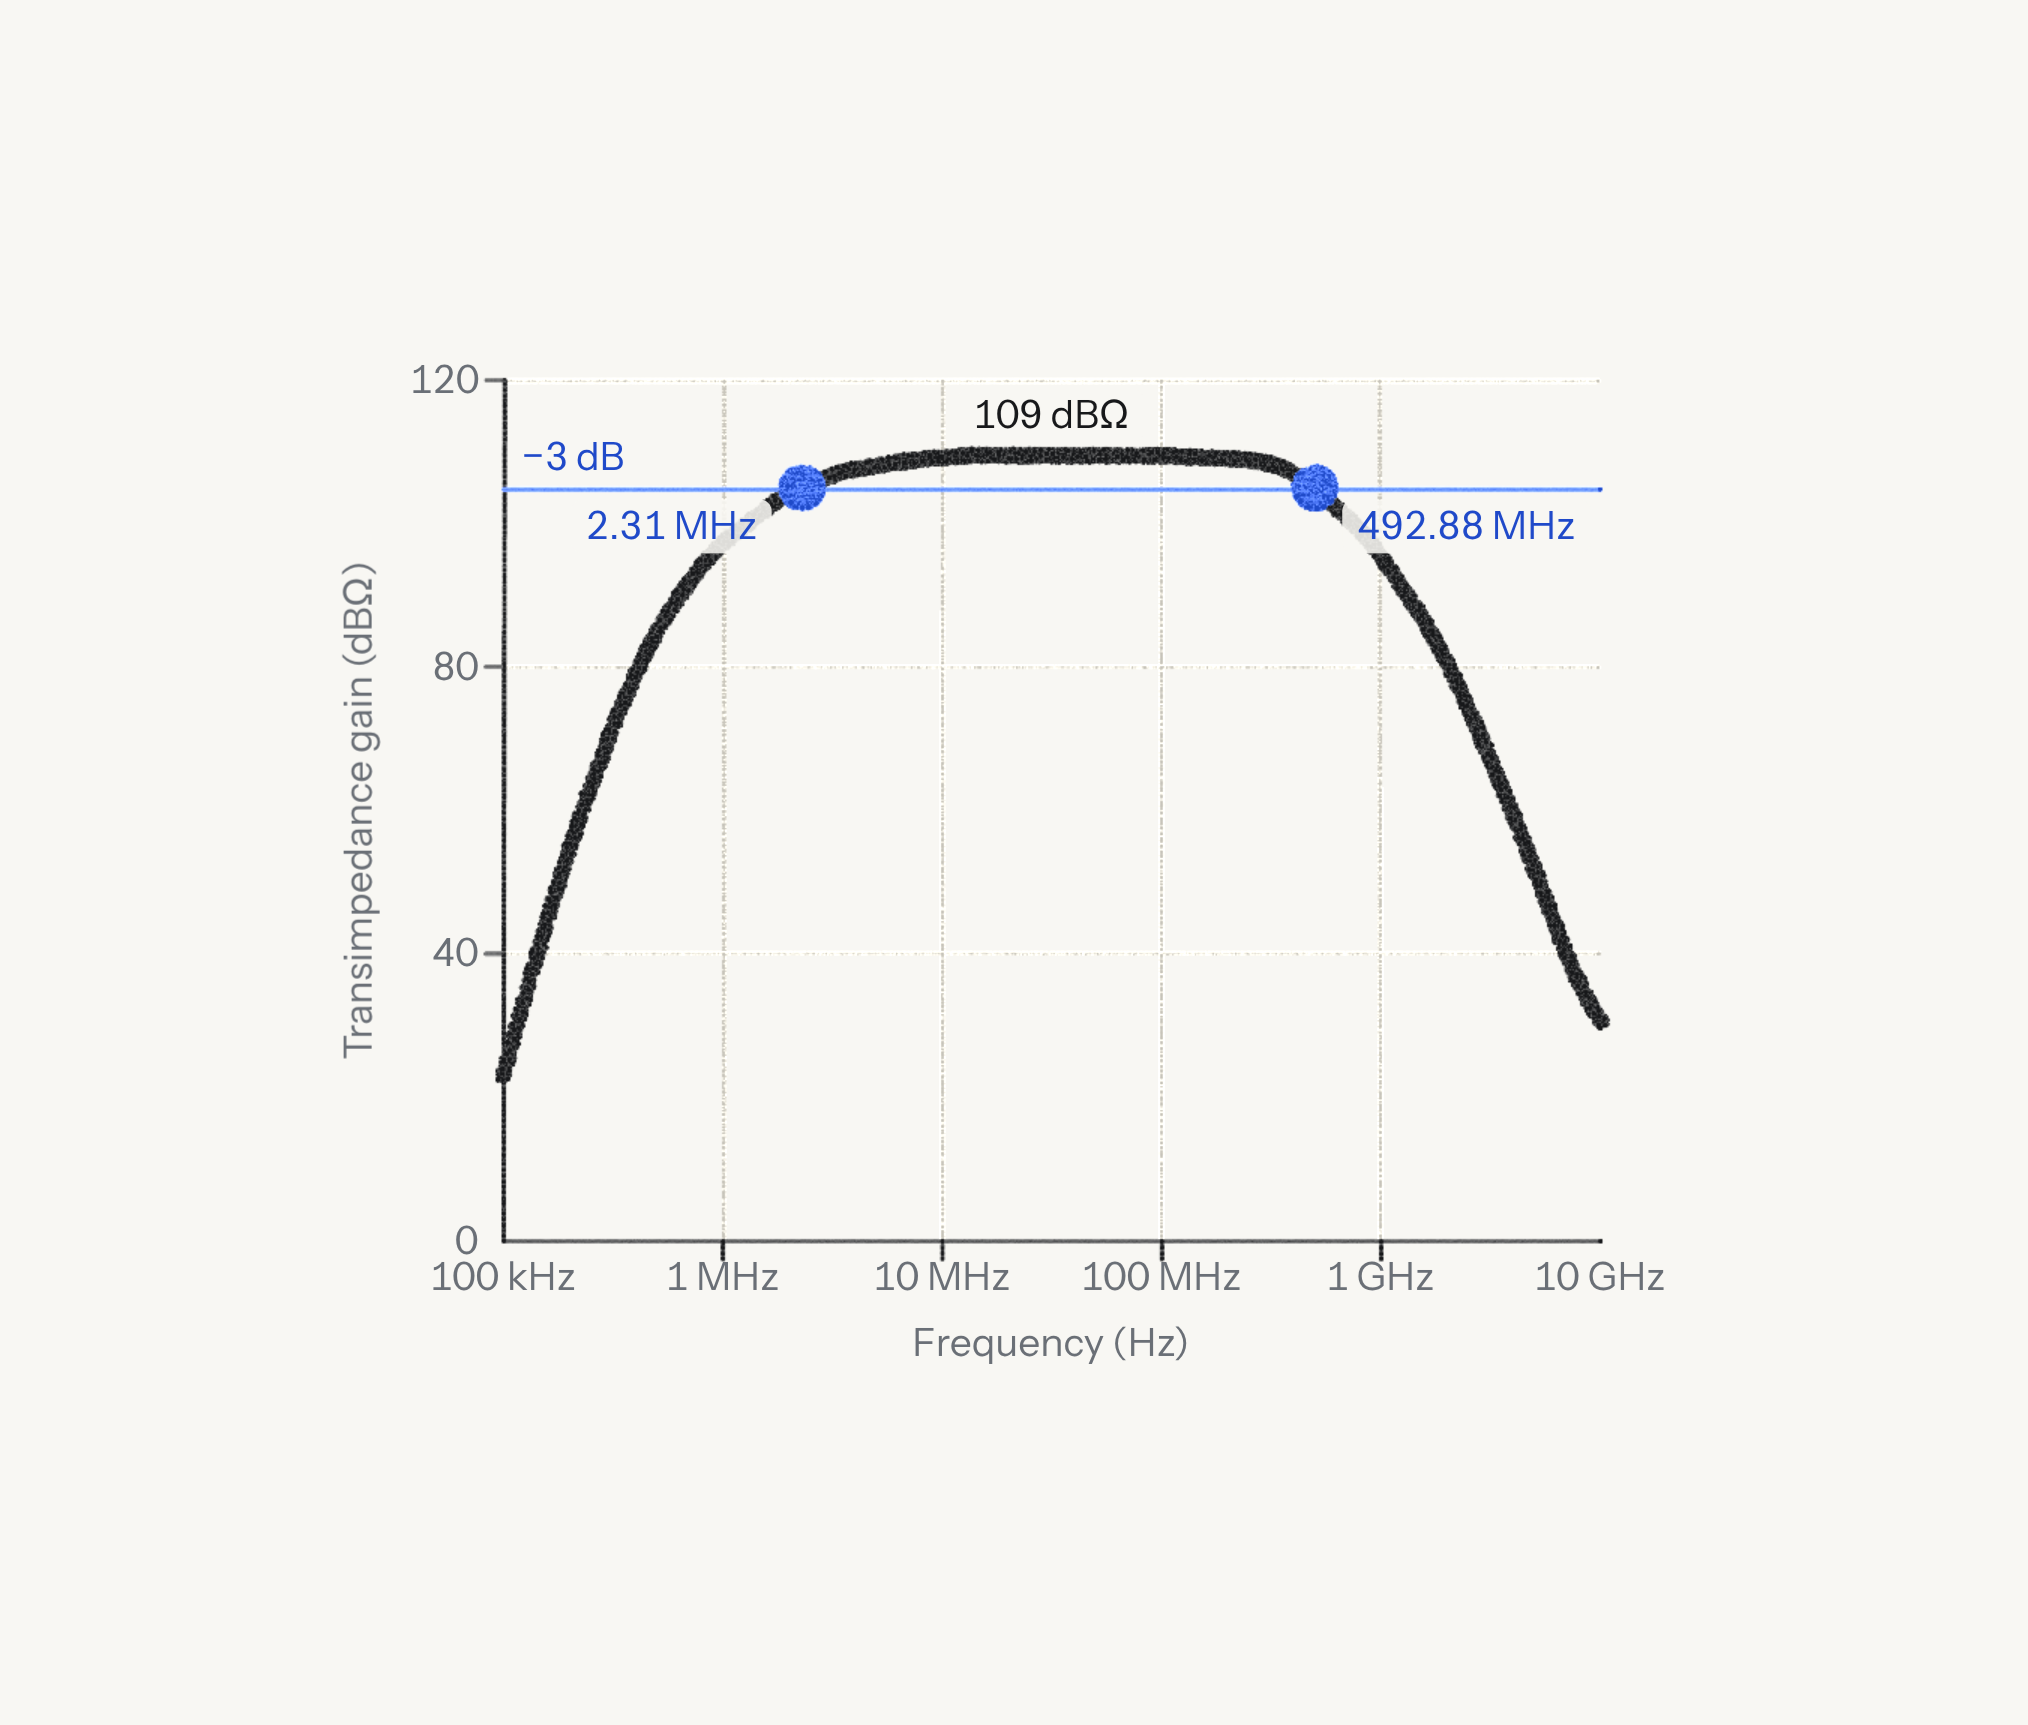
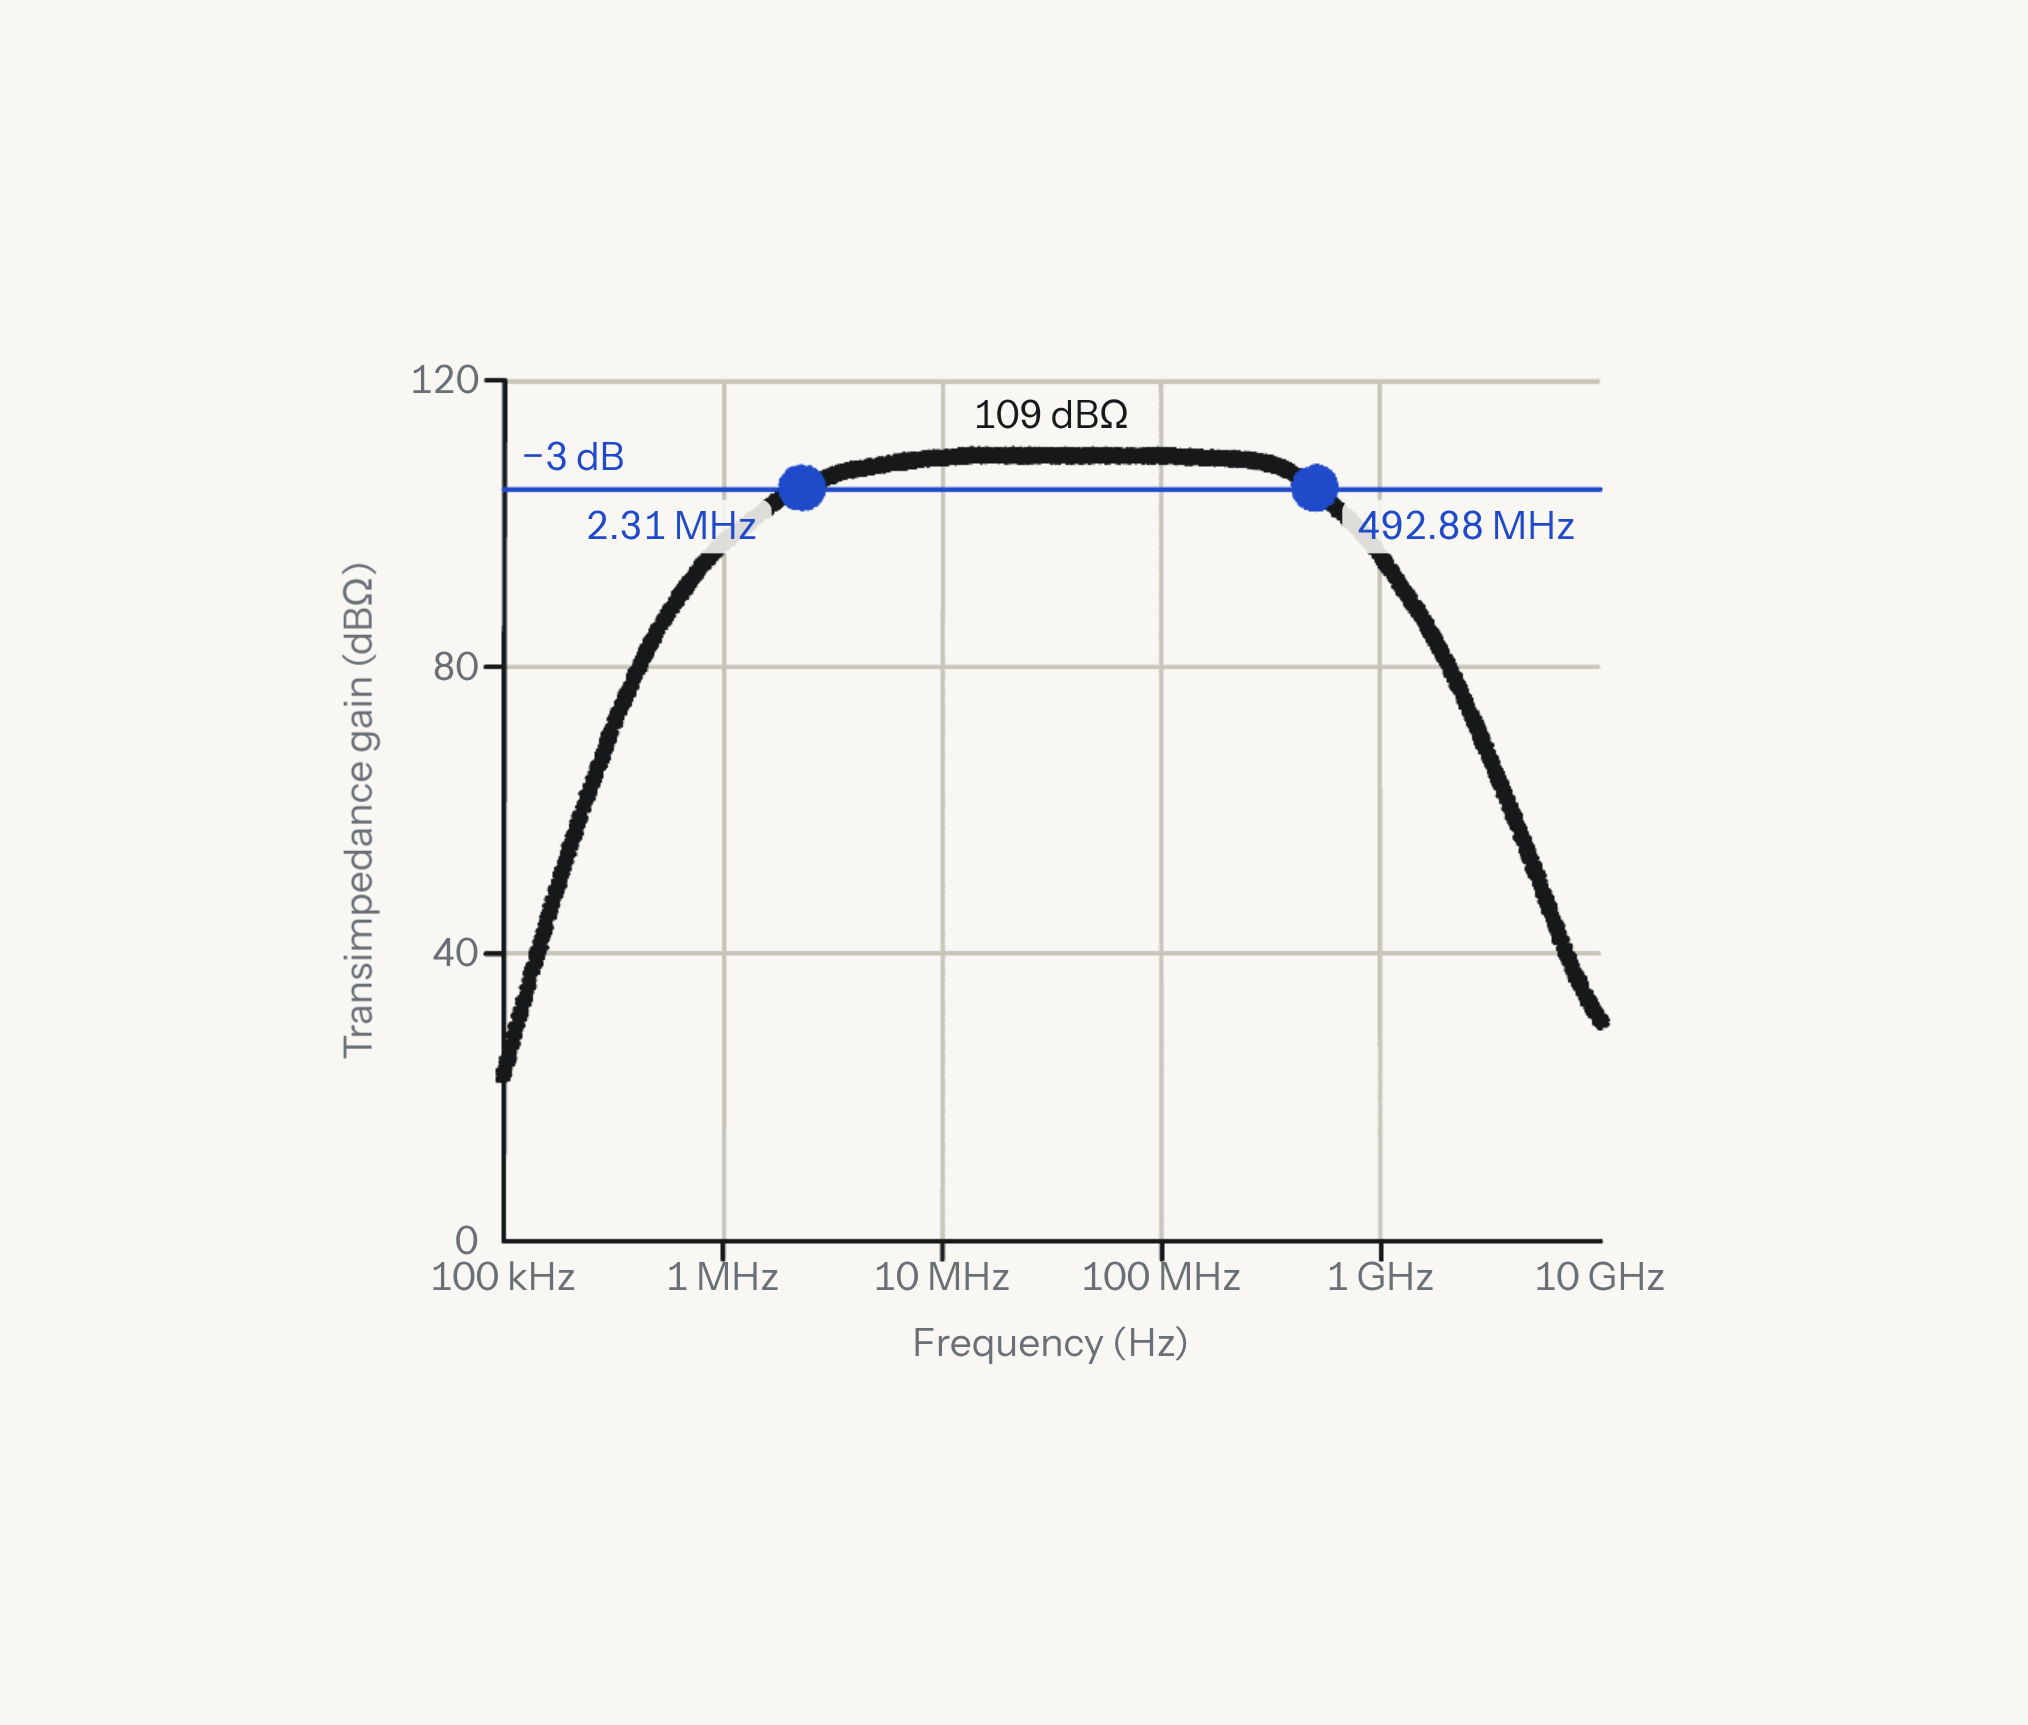
Cloud canvas gets an opaque WebGL context so feathered rims are not composited twice
three.js r186 creates its own context with alpha true, so the new alpha-to-coverage rim was blended
against the paper and then lightened again by the browser (bright specks, mottled lines, washed -3 dB line).
Create the context in cloud.js with alpha:false and pass it to the renderer; static TIA figures re-captured.

Claude-Session: https://claude.ai/code/session_018LMzagV9NcEfjj8oFWPqm4

diff --git a/assets/js/cloud.js b/assets/js/cloud.js
@@ -507,7 +507,11 @@
     var track = hero.querySelector(".hero-track") || hero, pin = hero.querySelector(".hero-pin, .stage-pin") || box;
 
     THREE.ColorManagement.enabled = false;   // the shaders output raw sRGB values
-    var renderer = new THREE.WebGLRenderer({ canvas: canvas, antialias: true, alpha: false, powerPreference: "high-performance" });
+    // three.js always asks for an alpha channel when it makes the context itself, and the browser then composites
+    // the feathered rim (alpha < 1) over the page a second time. Make the context here, opaque, and hand it over.
+    var ctxOpts = { alpha: false, antialias: true, depth: true, premultipliedAlpha: true, powerPreference: "high-performance" };
+    var ctx = canvas.getContext("webgl2", ctxOpts) || canvas.getContext("webgl", ctxOpts);
+    var renderer = new THREE.WebGLRenderer({ canvas: canvas, context: ctx, antialias: true, alpha: false, powerPreference: "high-performance" });
     renderer.setClearColor(0xf8f7f3, 1);   // paper: the canvas only ever sits on paper (.hero-visual and .cloud-box)
     var gl = renderer.getContext(), msaa = gl.getParameter(gl.SAMPLES) >= 2;
     var lost = false;
